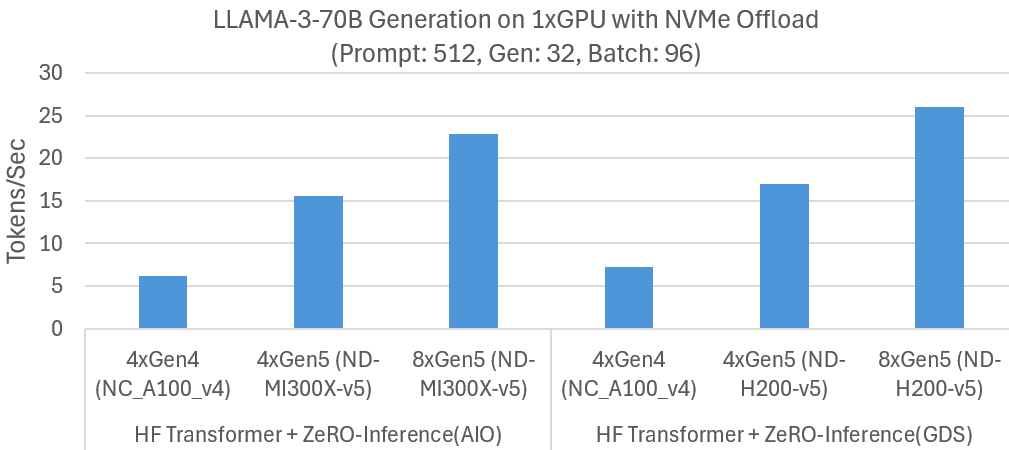
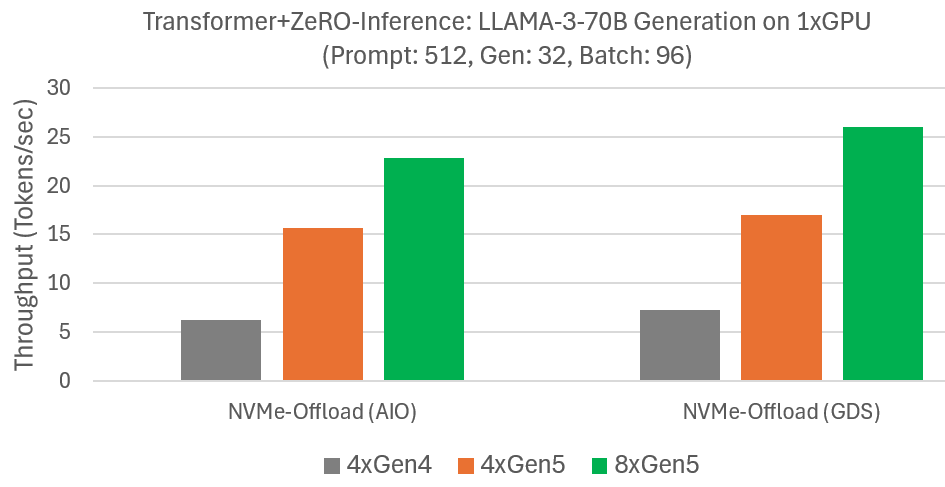
Blog updates

diff --git a/blogs/deepnvme/03-2025/README.md b/blogs/deepnvme/03-2025/README.md
@@ -13,10 +13,11 @@ Our experiments are conducted on Azure using VMs from the [ND-H200-v5](https://l
 
 |Software | Version
 |---|--|
-|PyTorch | 2.6.0+cu126|
-|CUDA | 12.6 |
 |Ubuntu | 24.0.2|
-
+|PyTorch | 2.6.0|
+|CUDA | 12.6 |
+|ROCM | |
+SGLang | 0.4.4.post4 | 
 
 # Addressing I/O Bottlenecks of Deep Learning
 We used DeepNVMe to develop FastPersist and ZeRO-Inference to target I/O bottlenecks in DL training and inference respectively. Our experiments are conducted using a single VM, in which we combine the available NVMe SSDs into a single RAID-0 volume to leverage aggregate read and write bandwidths.
@@ -48,6 +49,12 @@ We measure the throughput of serializing Phi-3-Mini checkpoint state from HBM to
 
 ### Democratizing SGLang through ZeRO-Inference integration
 [SGLang](https://docs.sglang.ai/) is a state-of-the-art serving framework for large language models (LLMs) and vision language models (VLMs). Our integration of ZeRO-Inference into SGLang makes SGLang available to budget-constrained users, and offers a cost-reduction option to existing SGLang users.
+
+<img src="./media/sg_zinf_llama_70b.png">
+<div align="center">
+  ZeRO-Inference improves SGLang inference with NVMe offloading to reduce hardware costs.
+</div>
+
 
 ### Scaling HF Transformer Generation with Faster NVMe SSDs
 ZeRO-Inference enhances HF Transformer inference with efficient model offloading to DRAM or NVMe. We previously [evaluated](https://github.com/deepspeedai/DeepSpeed/blob/master/blogs/deepspeed-gds/README.md#high-performance-offloading-via-nvme-scaling) LLAMA-3-70B generation performance with NVMe offloading on a single GPU and four Gen4 NVMes in an Azure [NC_A100_v4](https://learn.microsoft.com/en-us/azure/virtual-machines/sizes/gpu-accelerated/nca100v4-series?tabs=sizebasic) VM. We measured the generation speed for a prompt of 512 tokens, output of 32 tokens, and batch size 96. Since NVMe bandwidth was the main bottleneck, we repeat the experiments on Azure SKUs offering Gen5 NVMes(ND-MI300X-v5 and ND-H200-v5). The results summarized in the Figure below show that ZeRO-Inference uses the increased NVMe bandwidths to improve generation speeds. For example, with GDS, generation speed improves from 7 tokens/sec with four Gen4 NVMes to 17 tokens/sec with four Gen5 NVMes, and further to 26 tokens/sec with eight Gen5 NVMes. We observe similar improvements without GDS. These results show that ZeRO-Inference performance can be improved in cost-effective manner by increasing NVMe bandwidths.
@@ -98,6 +105,11 @@ torch.Size([1024])
 >>> x.dtype
 torch.float32
 ```
+
+<img src="./media/dnvme_file_access.png">
+<div align="center">
+  DeepNVMe accelerates file operations in CPU-only environments. 
+</div>
 
 
 ## Offset-based I/O operations
